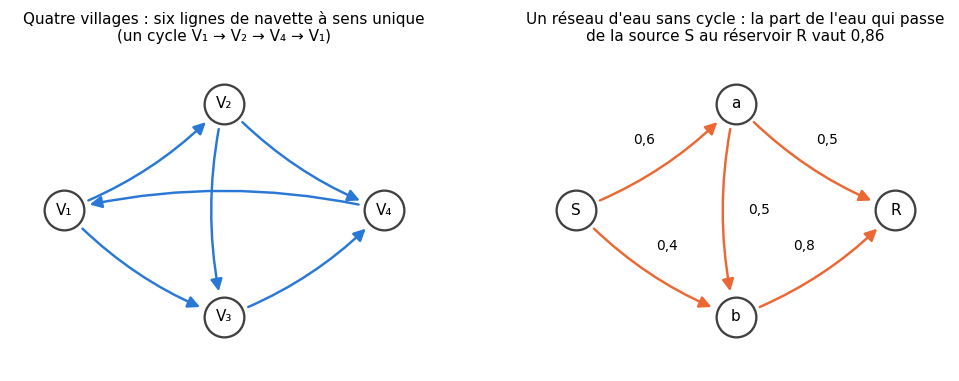
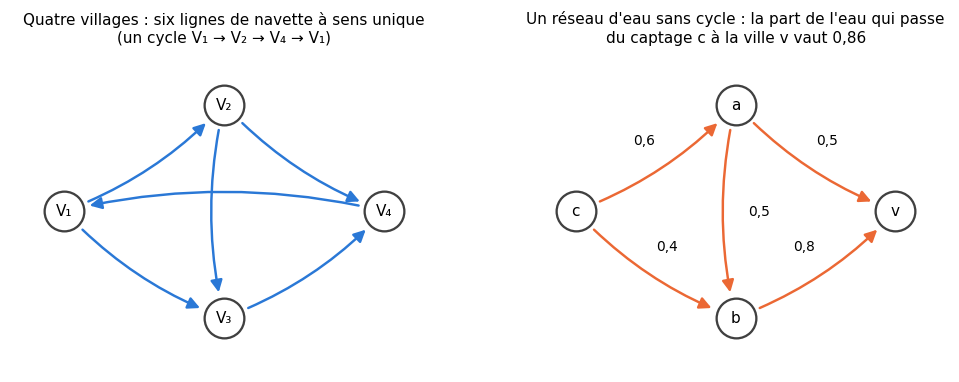
M16 (en cours) : corrections de la relecture de la règle de partage
Claude-Session: https://claude.ai/code/session_01Nzd2BLBqKp1WGBHcAcsxs2

diff --git a/tools/chapters/figures_m16.py b/tools/chapters/figures_m16.py
@@ -32,11 +32,10 @@ from wbm import plot as wbplot  # noqa: E402
 OUT = ROOT / "chapitres" / "m16_couches_affines" / "figures"
 C = wbplot.CATEGORICAL
 DPI = 110
-SEED = 4901
 
 H1 = np.array([[1.0, 0.0, 0.0], [2.0, 1.0, 0.0], [0.0, 1.0, 1.0]])     # §2: shear (x, y) ↦ (x + 2y, y), then + (0, 1)
 H2 = np.array([[3.0, 0.0, 0.0], [0.0, 3.0, 0.0], [-1.0, 0.0, 1.0]])    # §2: homothety of ratio 3, then + (−1, 0)
-GAMMAS = (1.2, 1.0, 0.85)                                              # §7: E[G²] of the random gains
+DEPTHS = (5, 25, 100)                                                  # §7: γ^L as a function of γ, for L stages
 STAGES = 25
 G_NOISY, S2_NOISY = 0.7, 1.0                                           # §7: Z_{k+1} = 0,7 Z_k + N_k, V(N_k) = 1
 
@@ -105,29 +104,27 @@ def graphs() -> None:
     axes[0].set(xlim=(-0.5, 3.5), ylim=(-0.5, 2.5))
     water = {0: (0, 1), 1: (1.5, 2), 2: (1.5, 0), 3: (3, 1)}
     flows = {(0, 1): 0.6, (0, 2): 0.4, (1, 2): 0.5, (1, 3): 0.5, (2, 3): 0.8}
-    _draw_graph(axes[1], water, list(flows), {0: "S", 1: "a", 2: "b", 3: "R"}, weights=flows, color=C[1])
-    axes[1].set_title("Un réseau d'eau sans cycle : la part de l'eau qui passe\nde la source S au réservoir R vaut 0,86",
+    _draw_graph(axes[1], water, list(flows), {0: "c", 1: "a", 2: "b", 3: "v"}, weights=flows, color=C[1])
+    axes[1].set_title("Un réseau d'eau sans cycle : la part de l'eau qui passe\ndu captage c à la ville v vaut 0,86",
                       fontsize=10)
     axes[1].set(xlim=(-0.5, 3.5), ylim=(-0.5, 2.5))
     save(fig, "graphes.png")
 
 
 def stages() -> None:
-    """§7: E[Z_k²] when a random gain of second moment γ multiplies Z at each stage; a chain of noisy amplifiers."""
-    rng = np.random.default_rng(SEED)
+    """§7: γ^L as a function of γ for several numbers of stages L; a chain of noisy amplifiers."""
     k = np.arange(STAGES + 1)
     fig, axes = plt.subplots(1, 2, figsize=(11, 4.0))
-    for gamma, color in zip(GAMMAS, C):
-        axes[0].plot(k, gamma ** k, color=color, lw=2, label=f"γ = {french_number(gamma)} : γᵏ")
-        signs = rng.choice([-1.0, 1.0], size=(20000, STAGES))
-        spread = 1 + 0.3 * rng.uniform(-1, 1, size=(20000, STAGES))            # E[spread] = 1
-        gains = signs * np.sqrt(gamma * spread)                                  # E[G²] = γ, independent gains
-        z = np.cumprod(np.hstack([np.ones((20000, 1)), gains]), axis=1)         # Z_0 = 1
-        axes[0].plot(k[::3], np.mean(z ** 2, axis=0)[::3], "o", color=color, ms=4)
+    gamma = np.linspace(0.92, 1.08, 401)
+    axes[0].axhspan(0.5, 2.0, color="0.9", zorder=0, label="entre ½ et 2")
+    for depth, color in zip(DEPTHS, C):
+        axes[0].plot(gamma, gamma ** depth, color=color, lw=2, label=f"L = {depth} étages")
+    axes[0].axvline(1.0, color="0.5", lw=0.8)
     axes[0].set_yscale("log")
-    axes[0].set(xlabel="étage k", ylabel="E[Zₖ²] (échelle log)",
-                title="Un gain aléatoire par étage : E[Zₖ²] = γᵏ\n(courbes : la formule ; points : 20 000 simulations)")
-    axes[0].legend(fontsize=9)
+    axes[0].set(xlabel="γ, le facteur par étage", ylabel="γᴸ (échelle log)", ylim=(1e-3, 1e3),
+                title="Le facteur total γᴸ en fonction de γ :\nplus il y a d'étages, plus la fenêtre autour de 1 est étroite")
+    axes[0].xaxis.set_major_formatter(FuncFormatter(french_number))
+    axes[0].legend(fontsize=9, loc="upper left")
     v = [0.0]
     for _ in range(STAGES):
         v.append(G_NOISY ** 2 * v[-1] + S2_NOISY)

diff --git a/chapitres/m16_couches_affines/05_solutions.md b/chapitres/m16_couches_affines/05_solutions.md
@@ -45,11 +45,11 @@
 ## 🔁 Rappels
 
 ### M16.R1 — Le produit matriciel, ses formes et son coût (M09a)
-1. $(3, 6)$ ; $\mathbf{B}\mathbf{A}$ n'existe pas : $\mathbf{B}$ a 6 colonnes et $\mathbf{A}$ 3 lignes.
-2. $3 \times 4 \times 6 = 72$ : chacune des 18 cases est un produit scalaire de longueur 4.
-3. $(\mathbf{A}\mathbf{B})^\top = \mathbf{B}^\top\mathbf{A}^\top$ (l'ordre s'inverse).
-4. $(4, 0, -3)$.
-5. $(6,)$.
+1. $(4, 0, -3)$ : on multiplie case par case.
+2. $(2, 3)$ : $(2, 5) \times (5, 7) \to (2, 7)$, puis $(2, 7) \times (7, 3) \to (2, 3)$.
+3. $(\mathbf{A}\mathbf{B})\mathbf{C}$ : $2 \times 5 \times 7 + 2 \times 7 \times 3 = 70 + 42 = 112$. $\mathbf{A}(\mathbf{B}\mathbf{C})$ : $5 \times 7 \times 3 + 2 \times 5 \times 3 = 105 + 30 = 135$. Même résultat (associativité), coûts différents.
+4. $(\mathbf{A}\mathbf{B}\mathbf{C})^\top = \mathbf{C}^\top\mathbf{B}^\top\mathbf{A}^\top$ (l'ordre s'inverse).
+5. $(7,)$ : $(2,) \times (2, 5) \to (5,)$, puis $(5,) \times (5, 7) \to (7,)$.
 
 ### M16.R2 — La variance d'une somme de variables indépendantes (M02b)
 1. $\mathbb{E}[2X - Y] = 2 - (-3) = 5$ ; $\mathbb{V}(2X - Y) = 4 \times 2 + 5 = 13$ (les variances s'ajoutent, même pour une différence).
@@ -109,7 +109,7 @@ Dans ta copie : le cycle $1 \to 2 \to 3 \to 1$ se parcourt autant de fois qu'on 
 
 **Réponses.** a) `[[0, 0, 1, 0, 0, 1], [0, 0, 0, 1, 1, 0], [0, 0, 0, 0, 0, 0], [1, 0, 0, 0, 0, 0], [1, 0, 0, 1, 0, 0], [0, 0, 1, 0, 0, 0]]` · b) `[2, 0, 2, 2, 1, 1]` · c) `2` · d) `6` · e) `[2, 5, 4, 1, 6, 3]` · f) `4` · g) `32`.
 
-**Démarche.** a) Dans la numérotation donnée : Montage (1) → Expédition (3) et Contrôle (6) ; Commande (2) → Peinture (4) et Découpe (5) ; Peinture (4) → Montage (1) ; Découpe (5) → Montage (1) et Peinture (4) ; Contrôle (6) → Expédition (3). b) Les sommes des colonnes. c) $(\mathbf{A}^2)_{21} = 2$ : Commande → Découpe → Montage et Commande → Peinture → Montage. d) On note chaque tâche par son initiale (C, D, P, M, E), et K pour Contrôle. On énumère, de Commande à Montage : C → D → M, C → P → M, C → D → P → M (3 chemins) ; de Montage à Expédition : M → E et M → K → E (2 chemins) ; chaque chemin de Commande à Expédition passe par Montage (seul prédécesseur de Contrôle, et prédécesseur d'Expédition avec Contrôle) : $3 \times 2 = 6$. e) Commande n'a aucun prédécesseur : elle prend le numéro 1. Puis Découpe (seul prédécesseur : Commande), Peinture (Commande, Découpe), Montage, Contrôle, Expédition. En anciens numéros : 2, 5, 4, 1, 6, 3. f) De Découpe à Montage : D → M et D → P → M (2) ; fois 2 : 4. g) La somme des cases de $\mathbf{S} = \mathbf{A} + \cdots + \mathbf{A}^5$ (le notebook la calcule) : $3 + 15 + 0 + 4 + 9 + 1$ par lignes.
+**Démarche.** a) Dans la numérotation donnée : Montage (1) → Expédition (3) et Contrôle (6) ; Commande (2) → Peinture (4) et Découpe (5) ; Peinture (4) → Montage (1) ; Découpe (5) → Montage (1) et Peinture (4) ; Contrôle (6) → Expédition (3). b) Les sommes des colonnes. c) $(\mathbf{A}^2)_{21} = 2$ : Commande → Découpe → Montage et Commande → Peinture → Montage. d) On note chaque tâche par son initiale (C, D, P, M, E), et K pour Contrôle. On énumère, de Commande à Montage : C → D → M, C → P → M, C → D → P → M (3 chemins) ; de Montage à Expédition : M → E et M → K → E (2 chemins) ; chaque chemin de Commande à Expédition passe par Montage (seul prédécesseur de Contrôle, et prédécesseur d'Expédition avec Contrôle) : $3 \times 2 = 6$. e) Le chemin C → D → P → M → K → E passe par les six tâches, et chacune de ses arêtes doit aller vers un numéro plus grand : les numéros 1 à 6 sont donnés dans cet ordre. On vérifie que les trois autres arêtes (C → P, D → M, M → E) montent aussi. En anciens numéros : 2, 5, 4, 1, 6, 3. f) De Découpe à Montage : D → M et D → P → M (2) ; fois 2 : 4. g) La somme des cases de $\mathbf{S} = \mathbf{A} + \cdots + \mathbf{A}^5$ (le notebook la calcule) : $3 + 15 + 0 + 4 + 9 + 1$ par lignes.
 
 Dans ta copie : $\mathbf{A}$ n'est pas triangulaire parce que l'arête Peinture (4) → Montage (1) descend vers un numéro plus petit. La numérotation est unique parce que le graphe contient le chemin C → D → P → M → K → E, qui passe par les six tâches : chacune doit précéder la suivante. Dans la nouvelle numérotation, la matrice $\mathbf{A}' = \mathbf{P}\mathbf{A}\mathbf{P}^\top$ ($\mathbf{P}$ la matrice de permutation de la fiche §4) est strictement triangulaire supérieure, donc nilpotente : $\mathbf{A}'^6 = \mathbf{0}$. Comme $\mathbf{P}^\top\mathbf{P} = \mathbf{I}$, on a $\mathbf{A} = \mathbf{P}^\top\mathbf{A}'\mathbf{P}$, puis $\mathbf{A}^6 = \mathbf{P}^\top\mathbf{A}'^6\mathbf{P} = \mathbf{0}$ (les $\mathbf{P}\mathbf{P}^\top$ intermédiaires valent $\mathbf{I}$). Enfin, d) est le coefficient de $\mathbf{S}$, égal à celui de $(\mathbf{I} - \mathbf{A})^{-1}$ hors de la diagonale.
 
@@ -131,13 +131,13 @@ Dans ta copie : le terme dû à la quantité, 3 600, domine : $Q$ varie de 17 % 
 
 ### Ex M16.6 — Des signes aléatoires d'amplitudes différentes sur des mesures corrélées
 
-**Réponses.** a) `30` · b) `0.25` · c) `10.25` · d) `0` · e) `11.25` · f) `30` · g) `40.25`.
+**Réponses.** a) `30` · b) `0.25` · c) `10.25` · d) `5` · e) `11.25` · f) `30` · g) `40.25`.
 
-**Démarche.** a) La somme de toutes les cases de la matrice de covariance : $4 + 9 + 1 + 2(5 + 1 + 2) = 30$. b) $\varepsilon_2$ est centré et $\varepsilon_2^2 = 0{,}25$ toujours. c) Le lemme du §6 : $\mathbb{V}(S) = 1 \times 4 + 0{,}25 \times 9 + 4 \times 1 = 10{,}25$ (les $x_i$ sont centrés, donc $\mathbb{E}[x_i^2] = \mathbb{V}(x_i)$). d) $\operatorname{Cov}(\varepsilon_1x_1, \varepsilon_2x_2) = \mathbb{E}[\varepsilon_1\varepsilon_2x_1x_2] - \mathbb{E}[\varepsilon_1x_1]\,\mathbb{E}[\varepsilon_2x_2]$. Comme $\varepsilon_1$ est indépendant de $(\varepsilon_2, x_1, x_2)$, $\mathbb{E}[\varepsilon_1\varepsilon_2x_1x_2] = \mathbb{E}[\varepsilon_1]\,\mathbb{E}[\varepsilon_2x_1x_2] = 0$ ; de même $\mathbb{E}[\varepsilon_1x_1] = 0$. e) $\mathbb{E}[x_1^2]$ devient $4 + 1^2 = 5$ : $5 + 2{,}25 + 4 = 11{,}25$. f) $\varepsilon^2 = 1$ : $\mathbb{V}(\varepsilon T) = \mathbb{E}[T^2] = \mathbb{V}(T) = 30$ pour $T = x_1 + x_2 + x_3$. g) La somme vaut $T + S$, avec $\operatorname{Cov}(T, S) = \sum_{i,j}\mathbb{E}[x_i\varepsilon_jx_j] = 0$ (chaque terme contient un $\varepsilon_j$ centré et indépendant du reste) : $30 + 10{,}25 = 40{,}25$.
+**Démarche.** a) La somme de toutes les cases de la matrice de covariance : $4 + 9 + 1 + 2(5 + 1 + 2) = 30$. b) $\varepsilon_2$ est centré et $\varepsilon_2^2 = 0{,}25$ toujours. c) Le lemme du §6 : $\mathbb{V}(S) = 1 \times 4 + 0{,}25 \times 9 + 4 \times 1 = 10{,}25$ (les $x_i$ sont centrés, donc $\mathbb{E}[x_i^2] = \mathbb{V}(x_i)$). d) $\varepsilon_1x_1 \cdot \varepsilon_1x_2 = \varepsilon_1^2x_1x_2 = x_1x_2$, car $\varepsilon_1^2 = 1$ ; les deux produits sont centrés (le lemme, ou simplement $x_1$ et $x_2$ centrés) : $\operatorname{Cov}(\varepsilon_1x_1, \varepsilon_1x_2) = \mathbb{E}[x_1x_2] = \operatorname{Cov}(x_1, x_2) = 5$. e) $\mathbb{E}[x_1^2]$ devient $4 + 1^2 = 5$ : $5 + 2{,}25 + 4 = 11{,}25$. f) $\varepsilon^2 = 1$ : $\mathbb{V}(\varepsilon T) = \mathbb{E}[T^2] = \mathbb{V}(T) = 30$ pour $T = x_1 + x_2 + x_3$. g) La somme vaut $T + S$, deux morceaux décorrélés (admis par l'énoncé) : $\mathbb{V}(T) + \mathbb{V}(S) = 30 + 10{,}25 = 40{,}25$.
 
-Dans ta copie : les covariances 5, 1 et 2 disparaissent de c) parce que chaque produit croisé $\varepsilon_i\varepsilon_jx_ix_j$ ($i \ne j$) contient un signe centré indépendant de tout le reste. En e), $\mathbb{V}(\varepsilon_1x_1) = \mathbb{E}[\varepsilon_1^2x_1^2] - \mathbb{E}[\varepsilon_1x_1]^2 = \mathbb{E}[x_1^2] - 0$ : le signe rend aléatoire la moyenne de $x_1$ elle aussi, et elle compte. En f), il manque l'**indépendance des signes entre eux** : un seul signe, commun aux trois termes, multiplie tout ; il ne change pas la variance de $T$, et les covariances restent. En g), il manque le **centrage** : les multiplicateurs ont pour moyenne 1, et leur partie constante remet $T$ et ses covariances dans la somme ; la covariance des deux morceaux, $\operatorname{Cov}(T, S)$, est nulle.
+Dans ta copie : d) n'est pas nul parce que le lemme demande des signes **différents**, indépendants entre eux ; un même signe se simplifie ($\varepsilon_1^2 = 1$) et laisse la covariance des mesures. Les covariances 5, 1 et 2 disparaissent de c) par le lemme : les trois produits sont décorrélés, quelles que soient les covariances des $x_i$. En e), $\mathbb{V}(\varepsilon_1x_1) = \mathbb{E}[\varepsilon_1^2x_1^2] - \mathbb{E}[\varepsilon_1x_1]^2 = \mathbb{E}[x_1^2] - 0$ : le signe rend aléatoire la moyenne de $x_1$ elle aussi, et elle compte. En f), il manque l'**indépendance des signes entre eux** : un seul signe, commun aux trois termes, multiplie tout ; il ne change pas la variance de $T$, et les covariances restent. En g), il manque le **centrage** : les multiplicateurs ont pour moyenne 1, et leur partie constante remet $T$ et ses covariances dans la somme ; les deux morceaux $T$ et $S$ sont décorrélés (admis), et leurs variances s'ajoutent.
 
-**Erreurs fréquentes.** Prendre $\mathbb{V}(\pm a) = a$ au lieu de $a^2$. Utiliser $\mathbb{V}(x_i)$ au lieu de $\mathbb{E}[x_i^2]$ quand les mesures ne sont pas centrées (e). Croire qu'un signe aléatoire commun casse les corrélations (f).
+**Erreurs fréquentes.** Prendre $\mathbb{V}(\pm a) = a$ au lieu de $a^2$. Utiliser $\mathbb{V}(x_i)$ au lieu de $\mathbb{E}[x_i^2]$ quand les mesures ne sont pas centrées (e). Croire qu'un signe aléatoire commun casse les corrélations (d et f).
 
 **Variante.** Avec trois signes $\pm 1$ : $\mathbb{V}(S) = 4 + 9 + 1 = 14$.
 
@@ -212,9 +212,9 @@ Dans ta copie : $\mathbf{1}\mathbf{b}^\top$ est le produit d'une colonne $(4, 1)
 
 ### M16.E1 — « Pourquoi l'écart-type d'une somme de n termes indépendants grandit-il comme √n ? »
 
-**Réponse modèle (60 secondes).** « Parce que ce sont les variances qui s'additionnent, pas les écarts-types. Des termes indépendants ont des covariances nulles, et la variance de leur somme est la somme de leurs variances : $n\sigma^2$ pour $n$ termes de variance $\sigma^2$. L'écart-type, sa racine, vaut $\sigma\sqrt{n}$ : les termes se compensent en partie. Si les termes sont corrélés, les covariances s'ajoutent, et, s'ils sont tous égaux, la somme vaut $n$ fois un terme, d'écart-type $n\sigma$. Des signes aléatoires indépendants suffisent à retrouver la croissance en $\sqrt{n}$ même pour des termes corrélés, parce qu'ils rendent les produits décorrélés. Conséquence : une moyenne de $n$ termes indépendants a un écart-type $\frac{\sigma}{\sqrt{n}}$ ; et quand on additionne beaucoup de contributions aléatoires, il faut réduire chacune, d'un facteur de l'ordre de $\frac{1}{\sqrt{n}}$ sur l'écart-type, pour que la somme garde l'échelle d'une seule. »
+**Réponse modèle (60 secondes).** « Parce que ce sont les variances qui s'additionnent, pas les écarts-types. Des termes indépendants ont des covariances nulles, et la variance de leur somme est la somme de leurs variances : $n\sigma^2$ pour $n$ termes de variance $\sigma^2$. L'écart-type, sa racine, vaut $\sigma\sqrt{n}$ : les termes se compensent en partie. Si les termes sont corrélés, les covariances s'ajoutent, et, s'ils sont tous égaux, la somme vaut $n$ fois un terme, d'écart-type $n\sigma$. Des signes aléatoires indépendants suffisent à retrouver la croissance en $\sqrt{n}$ même pour des termes corrélés, parce qu'ils rendent les produits décorrélés. Conséquence : la moyenne de $n$ termes indépendants, la somme divisée par $n$, a un écart-type $\frac{\sigma}{\sqrt{n}}$ ; c'est pour cela qu'on répète une mesure, et qu'il faut quatre fois plus de mesures pour diviser l'incertitude par deux. »
 
-**Grille.** Les variances s'ajoutent (covariances nulles) ; l'écart-type en $\sqrt{n}$ ; le cas corrélé (jusqu'à $n$) ; les signes aléatoires ; la moyenne en $\frac{1}{\sqrt{n}}$ ; la mise à l'échelle des contributions.
+**Grille.** Les variances s'ajoutent (covariances nulles) ; l'écart-type en $\sqrt{n}$ ; le cas corrélé (jusqu'à $n$) ; les signes aléatoires ; la moyenne en $\frac{\sigma}{\sqrt{n}}$ et ce qu'elle coûte en mesures.
 
 <a id="notebook"></a>
 

diff --git a/chapitres/m16_couches_affines/02_exercices.md b/chapitres/m16_couches_affines/02_exercices.md
@@ -63,11 +63,11 @@ Un graphe à 4 nœuds a pour matrice d'adjacence $\mathbf{A} = \begin{pmatrix} 0
 ### M16.R1 — Le produit matriciel, ses formes et son coût (M09a) 🔁 ★ ⏱ 5 min
 *Fiche §1 · parcours C, E*
 
-1. $\mathbf{A}$ a la forme $(3, 4)$ et $\mathbf{B}$ la forme $(4, 6)$ : forme de $\mathbf{A}\mathbf{B}$ ? Le produit $\mathbf{B}\mathbf{A}$ existe-t-il ?
-2. Combien de multiplications coûte $\mathbf{A}\mathbf{B}$ ?
-3. Écris $(\mathbf{A}\mathbf{B})^\top$ en fonction de $\mathbf{A}^\top$ et $\mathbf{B}^\top$.
-4. Calcule le produit de Hadamard $(1, -2, 3) \odot (4, 0, -1)$.
-5. $\mathbf{x}$ est une ligne de forme $(4,)$ : forme de $\mathbf{x}\mathbf{B}$ ?
+1. Calcule le produit de Hadamard $(1, -2, 3) \odot (4, 0, -1)$.
+2. $\mathbf{A}$, $\mathbf{B}$ et $\mathbf{C}$ ont les formes $(2, 5)$, $(5, 7)$ et $(7, 3)$ : forme du produit $\mathbf{A}\mathbf{B}\mathbf{C}$ ?
+3. Combien de multiplications coûte $(\mathbf{A}\mathbf{B})\mathbf{C}$ ? Et $\mathbf{A}(\mathbf{B}\mathbf{C})$ ?
+4. Écris $(\mathbf{A}\mathbf{B}\mathbf{C})^\top$ en fonction des transposées.
+5. $\mathbf{x}$ est une ligne de forme $(2,)$ : forme de $\mathbf{x}\mathbf{A}\mathbf{B}$ ?
 
 ### M16.R2 — La variance d'une somme de variables indépendantes (M02b) 🔁 ★ ⏱ 5 min
 *Fiche §5 · parcours C, E*
@@ -173,7 +173,7 @@ Un atelier fabrique un meuble en six tâches, numérotées dans l'ordre où on l
 Dans ta copie : pourquoi $\mathbf{A}$ n'est-elle pas triangulaire dans la numérotation donnée ? Pourquoi e) est-elle la seule numérotation possible ici ? Écris la matrice renumérotée et déduis-en, sans calcul de puissance, que $\mathbf{A}^6 = \mathbf{0}$. Pourquoi d) est-il le coefficient (Commande, Expédition) de $(\mathbf{I} - \mathbf{A})^{-1}$ ?
 
 ### Ex M16.5 — Un prix aléatoire fois une quantité indépendante : espérance et variance du produit ✏ ★★ ⏱ 15 min
-**Objectif :** calculer l'espérance, le second moment et la variance d'un produit de variables indépendantes, et mesurer ce qu'oublie la formule fausse.
+**Objectif :** calculer l'espérance, le moment d'ordre 2 et la variance d'un produit de variables indépendantes, et mesurer ce qu'oublie la formule fausse.
 **Prérequis :** fiche §5 ; M02b · **Parcours :** C, E
 
 Une coopérative vend chaque semaine une quantité $Q$ de pommes (en kilos), au prix $P$ du marché (en € par kilo) ; $P$ et $Q$ sont indépendants, $\mathbb{E}[P] = 3$, $\mathbb{V}(P) = 0{,}16$, $\mathbb{E}[Q] = 120$, $\mathbb{V}(Q) = 400$. La recette est $R = PQ$.
@@ -202,12 +202,12 @@ Trois mesures centrées $x_1$, $x_2$, $x_3$ ont la matrice de covariance $\begin
 | a | $\mathbb{V}(x_1 + x_2 + x_3)$ | un nombre |
 | b | $\mathbb{V}(\varepsilon_2)$ | un nombre |
 | c | $\mathbb{V}(S)$ | un nombre |
-| d | $\operatorname{Cov}(\varepsilon_1x_1,\ \varepsilon_2x_2)$ | un nombre |
+| d | $\operatorname{Cov}(\varepsilon_1x_1,\ \varepsilon_1x_2)$ : le **même** signe $\varepsilon_1$ multiplie $x_1$ et $x_2$ | un nombre |
 | e | $\mathbb{V}(S)$ si $x_1$ avait pour moyenne 1 au lieu de 0, le reste inchangé (pour cette question seulement : en f et g, les trois mesures sont de nouveau centrées) | un nombre |
 | f | $\mathbb{V}\big(\varepsilon(x_1 + x_2 + x_3)\big)$, avec **un seul** signe $\varepsilon = \pm 1$ pour les trois mesures | un nombre |
-| g | $\mathbb{V}\big((1 + \varepsilon_1)x_1 + (1 + \varepsilon_2)x_2 + (1 + \varepsilon_3)x_3\big)$ : des multiplicateurs de moyenne 1 | un nombre |
+| g | $\mathbb{V}\big((1 + \varepsilon_1)x_1 + (1 + \varepsilon_2)x_2 + (1 + \varepsilon_3)x_3\big)$ : des multiplicateurs de moyenne 1 (on admet que $x_1 + x_2 + x_3$ et $S$ sont décorrélées) | un nombre |
 
-Dans ta copie : justifie d) à partir des hypothèses (laquelle sert à chaque étape ?). Pourquoi les covariances 5, 1 et 2 n'apparaissent-elles pas dans c) ? Pourquoi e) fait-il intervenir $\mathbb{E}[x_1^2]$ et non $\mathbb{V}(x_1)$ ? Explique f) et g) : quelle hypothèse du lemme manque à chaque fois ? Pour g), écris la somme comme $(x_1 + x_2 + x_3) + S$ et calcule la covariance des deux morceaux.
+Dans ta copie : pourquoi d) n'est-il pas nul, alors que le lemme rend $\varepsilon_1x_1$ et $\varepsilon_2x_2$ décorrélés ? Pourquoi les covariances 5, 1 et 2 n'apparaissent-elles pas dans c) ? Pourquoi e) fait-il intervenir $\mathbb{E}[x_1^2]$ et non $\mathbb{V}(x_1)$ ? Explique f) et g) : quelle hypothèse du lemme manque à chaque fois ? Pour g), écris la somme comme $(x_1 + x_2 + x_3) + S$.
 
 <a id="demonstrations"></a>
 
@@ -280,11 +280,11 @@ Un ami calcule la variance de la surface d'un champ rectangulaire dont la longue
 ## 💼 Entretien
 
 ### M16.E1 — « Pourquoi l'écart-type d'une somme de n termes indépendants grandit-il comme √n ? » 💼 ★ ⏱ 10 min
-*Fiche §6 et §7 · parcours C*
+*Fiche §6 · parcours C*
 
 « Pourquoi l'écart-type d'une somme de $n$ termes indépendants grandit-il comme $\sqrt{n}$ ? »
 
-Prépare une réponse orale de **60 secondes**. Elle doit dire ce qui s'additionne (les variances, grâce aux covariances nulles) et ce qui ne s'additionne pas (les écarts-types), ce que change une corrélation entre les termes (jusqu'à une croissance en $n$), le cas de termes multipliés par des signes aléatoires indépendants, la conséquence pour la moyenne de $n$ termes (un écart-type en $\frac{1}{\sqrt{n}}$), et ce que cela implique quand on additionne beaucoup de contributions aléatoires : pour garder une échelle donnée, il faut réduire chaque contribution. Compare ensuite avec la réponse modèle de `05_solutions.md`.
+Prépare une réponse orale de **60 secondes**. Elle doit dire ce qui s'additionne (les variances, grâce aux covariances nulles) et ce qui ne s'additionne pas (les écarts-types), ce que change une corrélation entre les termes (jusqu'à une croissance en $n$), le cas de termes multipliés par des signes aléatoires indépendants, et la conséquence pour la moyenne de $n$ termes (un écart-type en $\frac{\sigma}{\sqrt{n}}$, la raison pour laquelle on répète une mesure). Compare ensuite avec la réponse modèle de `05_solutions.md`.
 
 <a id="notebook"></a>
 

diff --git a/annexes/glossaire.md b/annexes/glossaire.md
@@ -23,7 +23,7 @@ Les termes mathématiques sont en français dans les fiches, avec l'anglais en g
 | approximation de rang faible | low-rank approximation | $\mathbf{A}_k = \sum_{i \le k} s_i\mathbf{u}_i\mathbf{v}_i^\top$, les $k$ premières couches de la SVD : la matrice de rang $k$ la plus proche de $\mathbf{A}$ (Eckart-Young), stockée avec $k(m + n + 1)$ nombres au lieu de $mn$ | M12d |
 | arbre pondéré | probability tree | arbre des étapes d'une expérience, chaque branche portant sa probabilité : on multiplie le long d'un chemin, on additionne les chemins | R8 |
 | arccosinus | arccosine, arccos | la réciproque du cosinus sur $[0 ; \pi]$ : l'unique angle de $[0 ; \pi]$ qui a un cosinus donné | R9 |
-| arête, nœud (d'un graphe) | edge, node (vertex) | un graphe relie des nœuds (ou sommets) par des arêtes ; dans un graphe orienté, l'arête $i \to j$ a un sens, $i$ est un prédécesseur de $j$ et $j$ un successeur de $i$ | M16 |
+| arête, nœud (d'un graphe) | edge, node (vertex) | un graphe relie des nœuds (ou sommets) par des arêtes ; dans un graphe orienté, l'arête $i \to j$ a un sens, $i$ est un prédécesseur (ou parent) de $j$ et $j$ un successeur (ou enfant) de $i$ ; les nœuds d'où part un chemin vers $j$ sont ses ancêtres, ceux où arrive un chemin parti de $i$ ses descendants | M16 |
 | argmax, argmin | argmax, argmin | la valeur de $x$ où une fonction atteint son maximum (son minimum), pas la valeur de ce maximum | R3, M05b |
 | argument, prémisse | argument, premise | une suite de phrases, les prémisses, suivie d'une conclusion qu'elles sont censées justifier | M11 |
 | arrangement | k-permutation | choix ordonné de $k$ objets distincts parmi $n$ : $\frac{n!}{(n - k)!}$ possibilités | R8 |
@@ -125,7 +125,7 @@ Les termes mathématiques sont en français dans les fiches, avec l'anglais en g
 | croissances comparées | orders of growth, comparative growth rates | pour $x$ très grand, $\ln x \ll x^k \ll a^x$ ($k > 0$, $a > 1$) | R6 |
 | croissante, décroissante | increasing, decreasing | qui conserve (retourne) l'ordre sur un intervalle : $a < b \Rightarrow f(a) \le f(b)$ ($\ge$) | R3 |
 | cross-entropy | cross-entropy | $H(p, q) = -\sum p \log_2 q$ : la longueur moyenne d'un code fait pour la loi $q$, sur des données de loi $p$ ; la log loss en est une | M06 |
-| cycle (d'un graphe) | cycle | un chemin qui revient à son point de départ ; un graphe orienté sans cycle est un DAG | M16 |
+| cycle (d'un graphe), boucle | cycle, loop | un chemin qui revient à son point de départ ; une arête $i \to i$ est un cycle de longueur 1 ; un graphe orienté sans cycle est un DAG | M16 |
 | ddof | ddof (delta degrees of freedom) | le nombre retranché à $n$ au dénominateur d'une variance : `ddof=0` divise par $n$, `ddof=1` par $n - 1$ | M02c |
 | débordement, underflow | overflow, underflow | un résultat trop grand pour un flottant, que NumPy rend `inf` ; trop petit, il est arrondi à 0 (*dépassement par le bas*) ; on garde souvent les mots anglais | M04, M05a |
 | décade, échelle logarithmique | decade, logarithmic scale | sur un axe logarithmique, des écarts égaux sont des rapports égaux ; une décade est un facteur 10 | R6 |
@@ -138,7 +138,7 @@ Les termes mathématiques sont en français dans les fiches, avec l'anglais en g
 | déduction, induction | deduction, induction | raisonner des prémisses à une conclusion certaine si elles sont vraies ; généraliser des exemples à une conclusion seulement probable (le raisonnement par récurrence est une déduction) | M11 |
 | défective (matrice) | defective matrix | une matrice $n \times n$ qui a moins de $n$ vecteurs propres libres : une valeur propre a une multiplicité géométrique inférieure à sa multiplicité algébrique ; elle n'est pas diagonalisable (le cisaillement $\begin{pmatrix} 3 & 1 \\ 0 & 3 \end{pmatrix}$) | M12c |
 | déflation | deflation | remplacer $\mathbf{A}$ symétrique par $\mathbf{A} - \lambda_1\mathbf{q}_1\mathbf{q}_1^\top$, qui a les mêmes valeurs propres sauf $\lambda_1$, remplacée par 0, pour trouver la suivante par la méthode de la puissance | M12c |
-| degré entrant, degré sortant | in-degree, out-degree | le nombre d'arêtes qui arrivent en un nœud, qui en partent : la somme d'une colonne, d'une ligne de la matrice d'adjacence | M16 |
+| degré entrant, degré sortant | in-degree, out-degree | le nombre d'arêtes qui arrivent en un nœud, qui en partent : la somme d'une colonne, d'une ligne de la matrice d'adjacence ; dans un réseau de calculs, on dit *fan-in* et *fan-out* | M16 |
 | degrés de liberté | degrees of freedom | le nombre de valeurs libres : les $n$ écarts à la moyenne ont une somme nulle, donc $n - 1$ degrés de liberté | M02c |
 | demi-espace | half-space | l'un des deux côtés d'un hyperplan : les $\mathbf{x}$ tels que $\mathbf{w} \cdot \mathbf{x} + b > 0$ (ou $< 0$) | M07 |
 | démonstration par l'absurde | proof by contradiction | supposer la conclusion fausse et aboutir à une contradiction | R4 |

diff --git a/annexes/symboles.md b/annexes/symboles.md
@@ -169,7 +169,7 @@ Une formule se lit comme une phrase. Ce tableau donne, pour chaque symbole, **co
 | $\kappa(\mathbf{A})$ | « kappa de A » | condition number of A | le conditionnement $s_{\max}/s_{\min}$ | $\kappa\big(\operatorname{diag}(10, 0{,}1)\big) = 100$ | M12d |
 | $\mathbf{X}_c$, $\mathbf{W}_k$, $\mathbf{Z}$, $t_{ij}$ | « X c », « W k », « Z », « t i j » | centered data, the first k principal axes, scores | les données centrées ; les $k$ premiers axes principaux en colonnes ; les scores $\mathbf{X}_c\mathbf{W}_k$, de terme $t_{ij} = \mathbf{u}_j^\top(\mathbf{x}_i - \boldsymbol{\mu})$ | $\hat{\mathbf{X}} = \mathbf{Z}\mathbf{W}_k^\top + \boldsymbol{\mu}$ | M12d |
 | $p_{j \mid i}$, $p_{ij}$ | « p de j sachant i », « p i j » | conditional, joint neighbor probabilities | la probabilité que $\mathbf{x}_i$ choisisse $\mathbf{x}_j$ pour voisin (t-SNE) ; sa version symétrisée $\frac{p_{j \mid i} + p_{i \mid j}}{2n}$ | $\sum_{j \ne i} p_{j \mid i} = 1$ | M12d |
-| $\mathbf{x}\mathbf{W} + \mathbf{b}$ | « x W plus b » | affine map, row-vector convention | l'application affine appliquée à la ligne $\mathbf{x}$ : $\mathbf{W}$ de forme $(n, m)$, $\mathbf{b}$ de forme $(m,)$ ; en colonnes, $\mathbf{W}^\top\mathbf{x} + \mathbf{b}$ | $(3, -2)\begin{pmatrix} 1 & 2 & 0 \\ 1 & 0 & -1 \end{pmatrix} + (0, -1, 4) = (1, 5, 6)$ | M16 |
+| $\mathbf{x}\mathbf{W} + \mathbf{b}$ | « x W plus b » | affine map, row-vector convention | l'application affine appliquée à la ligne $\mathbf{x}$ : $\mathbf{W}$ de forme $(n, m)$, $\mathbf{b}$ de forme $(m,)$ ; en colonnes, $\mathbf{W}^\top\mathbf{x} + \mathbf{b}$ | $(1, 2)\begin{pmatrix} 1 & 0 \\ 0 & 3 \end{pmatrix} + (5, -1) = (6, 5)$ | M16 |
 | $\mathbf{1}\mathbf{b}^\top$ | « un b transposé » | outer product with a vector of ones | la matrice dont chaque ligne est $\mathbf{b}$ ; $\mathbf{X}\mathbf{W} + \mathbf{1}\mathbf{b}^\top$ s'écrit `X @ W + b` (diffusion) | $\begin{pmatrix} 1 \\ 1 \end{pmatrix}(2, 5) = \begin{pmatrix} 2 & 5 \\ 2 & 5 \end{pmatrix}$ | M16 |
 | $[\mathbf{x}, 1]$, $\mathbf{H}$ | « x, un », « H » | homogeneous coordinates, augmented matrix | le point $\mathbf{x}$ suivi d'une coordonnée 1, et la matrice homogène $\begin{pmatrix} \mathbf{W} & \mathbf{0} \\ \mathbf{b} & 1 \end{pmatrix}$ : $[\mathbf{x}, 1]\,\mathbf{H} = [\mathbf{x}\mathbf{W} + \mathbf{b}, 1]$ ; $f_1$ puis $f_2$ : $\mathbf{H}_1\mathbf{H}_2$ | la translation de vecteur $(a, b)$ : $\begin{pmatrix} 1 & 0 & 0 \\ 0 & 1 & 0 \\ a & b & 1 \end{pmatrix}$ | M16 |
 | $i \to j$ | « i vers j » | edge from i to j | une arête orientée du nœud $i$ au nœud $j$ : $A_{ij} \ne 0$ | $1 \to 2 \to 3$ : un chemin de longueur 2 | M16 |

diff --git a/chapitres/m16_couches_affines/04_indices.md b/chapitres/m16_couches_affines/04_indices.md
@@ -205,7 +205,7 @@ Relis le §4 : la numérotation triangulaire, puis la somme sur les chemins.
 </details>
 <details><summary>Indice 2</summary>
 
-e) Cherche la tâche qui n'a aucun prédécesseur : elle prend le numéro 1 ; enlève-la, et recommence. d) Toutes les routes de Commande à Expédition passent par Montage.
+e) Cherche un chemin qui passe par les six tâches : chacune de ses arêtes doit aller vers un numéro plus grand. d) Toutes les routes de Commande à Expédition passent par Montage.
 
 </details>
 <details><summary>Indice 3</summary>
@@ -246,7 +246,7 @@ $\mathbb{V}(\pm a) = a^2$ ; $\mathbb{V}\big(\sum\varepsilon_ix_i\big) = \sum\mat
 </details>
 <details><summary>Indice 3</summary>
 
-e) $\mathbb{E}[x_1^2] = \mathbb{V}(x_1) + \mathbb{E}[x_1]^2$. f) Un seul signe : $\mathbb{V}(\varepsilon T) = \mathbb{E}[\varepsilon^2]\,\mathbb{E}[T^2]$. g) La somme vaut $T + S$ ; calcule $\operatorname{Cov}(T, S)$ terme à terme.
+e) $\mathbb{E}[x_1^2] = \mathbb{V}(x_1) + \mathbb{E}[x_1]^2$. d) $\varepsilon_1^2 = 1$. f) Un seul signe : $\mathbb{V}(\varepsilon T) = \mathbb{E}[\varepsilon^2]\,\mathbb{E}[T^2]$. g) La somme vaut $T + S$, deux morceaux décorrélés : leurs variances s'ajoutent.
 
 </details>
 
@@ -321,7 +321,7 @@ Relis « Beaucoup de points d'un coup » (§1), puis le §2.
 </details>
 <details><summary>Indice 2</summary>
 
-$\mathbf{1}\mathbf{b}^\top$ : une colonne de 4 uns fois la ligne $\mathbf{b}$.
+$\mathbf{1}\mathbf{b}^\top$ : une colonne de 4 uns fois la ligne $\mathbf{b}^\top$.
 
 </details>
 <details><summary>Indice 3</summary>

diff --git a/chapitres/m16_couches_affines/06_mes_reponses.md b/chapitres/m16_couches_affines/06_mes_reponses.md
@@ -136,7 +136,7 @@
 - e :
 - f :
 - g :
-- d) justifié hypothèse par hypothèse ; les covariances absentes de c) ; E[x₁²] et non V(x₁) dans e) ; l'hypothèse qui manque à f) et à g), et la covariance des deux morceaux de g) :
+- pourquoi d) n'est pas nul ; les covariances absentes de c) ; E[x₁²] et non V(x₁) dans e) ; l'hypothèse qui manque à f) et à g) ; g) écrit comme (x₁ + x₂ + x₃) + S :
 
 ## ∂ Démonstrations
 
@@ -218,7 +218,7 @@
 
 - l'ordre des produits de matrices ; ce que fait chaque étape à la flèche :
 
-### Ex M16.18 — Chasse à l'erreur : une matrice homogène écrite pour des colonnes, Var(XY) = Var X · Var Y, et (I − A)⁻¹ sur un graphe qui a un cycle
+### Ex M16.18 — Chasse à l'erreur : une matrice homogène écrite pour des colonnes et appliquée à des lignes, Var(XY) = Var X · Var Y, et (I − A)⁻¹ sur un graphe qui a un cycle
 
 - après la vérification : ce que calcule chaque ligne fausse, et sa correction ; les entrées sur lesquelles l'erreur ne se voit pas :
 
